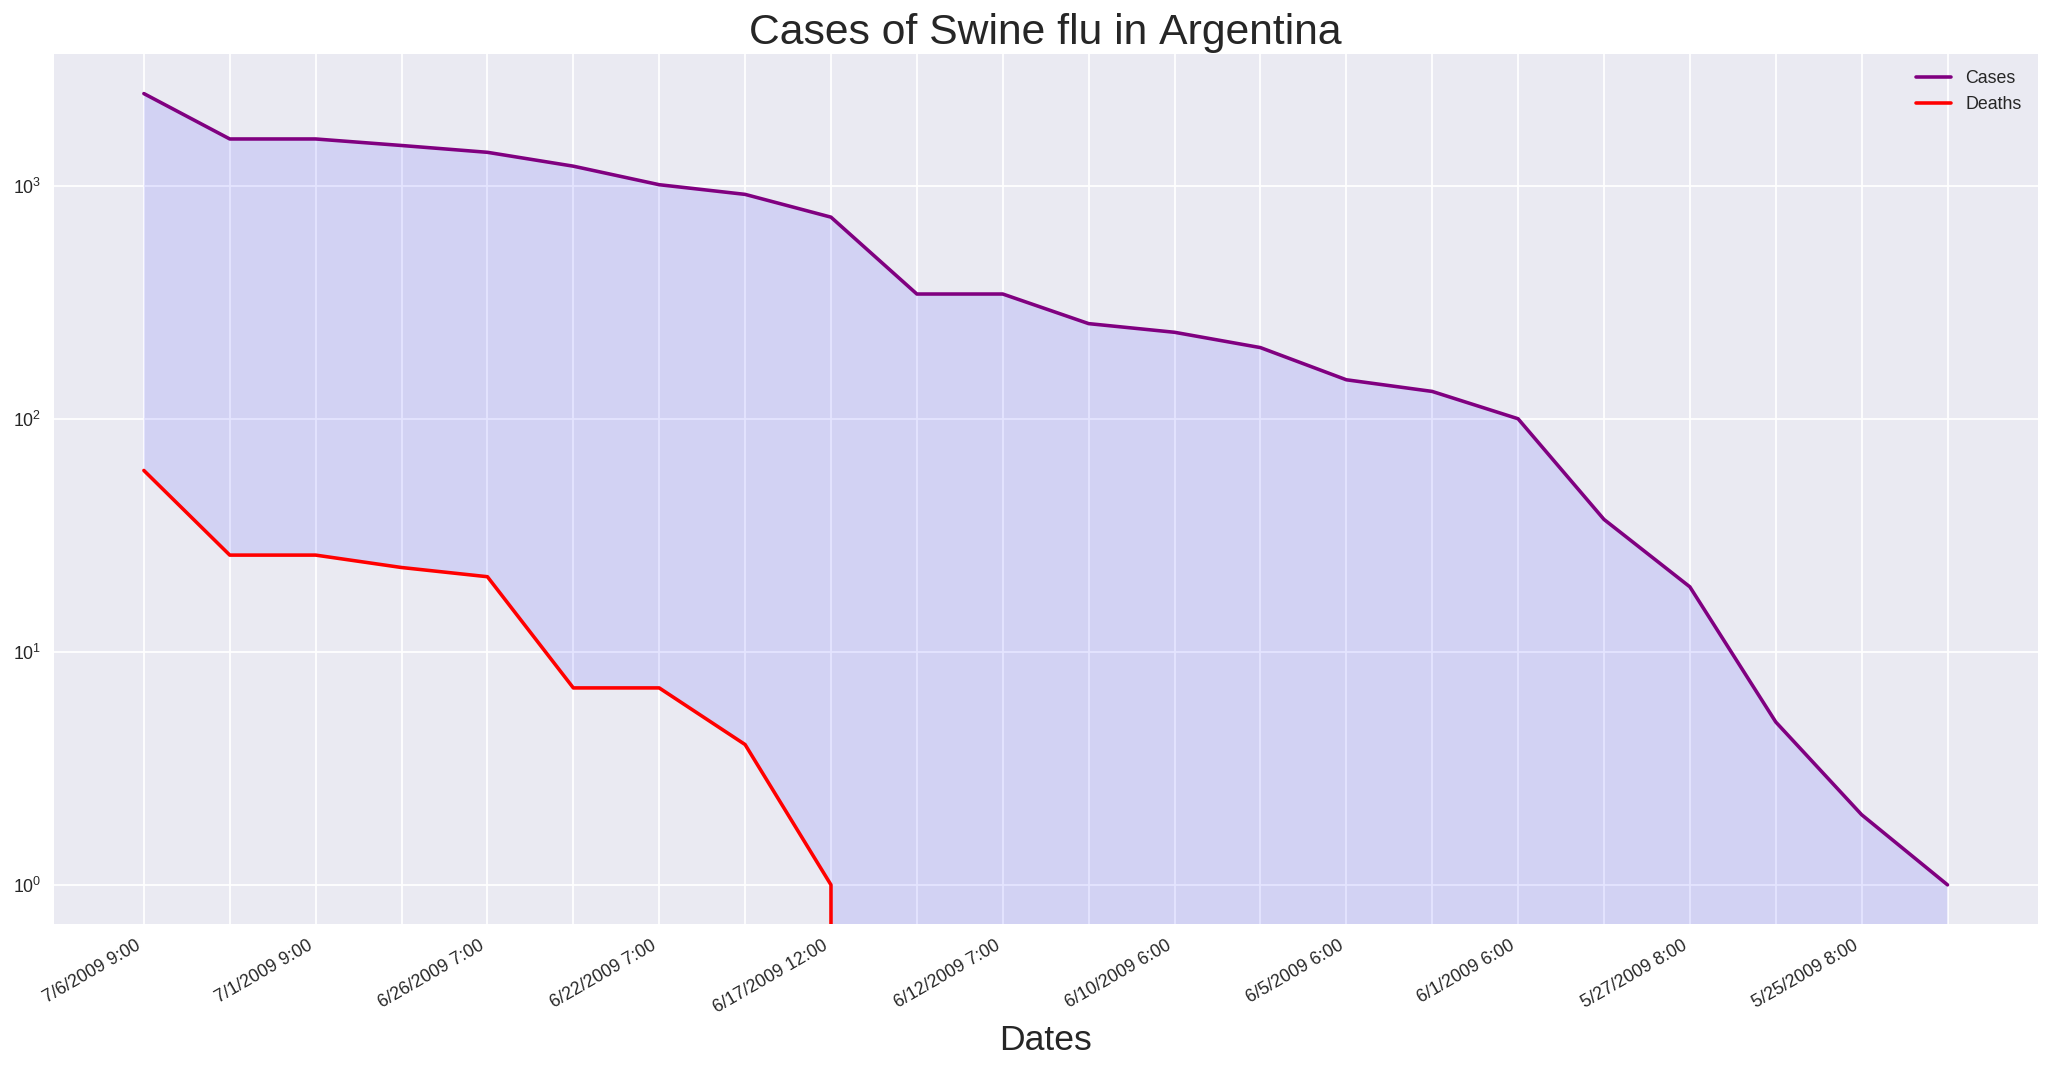
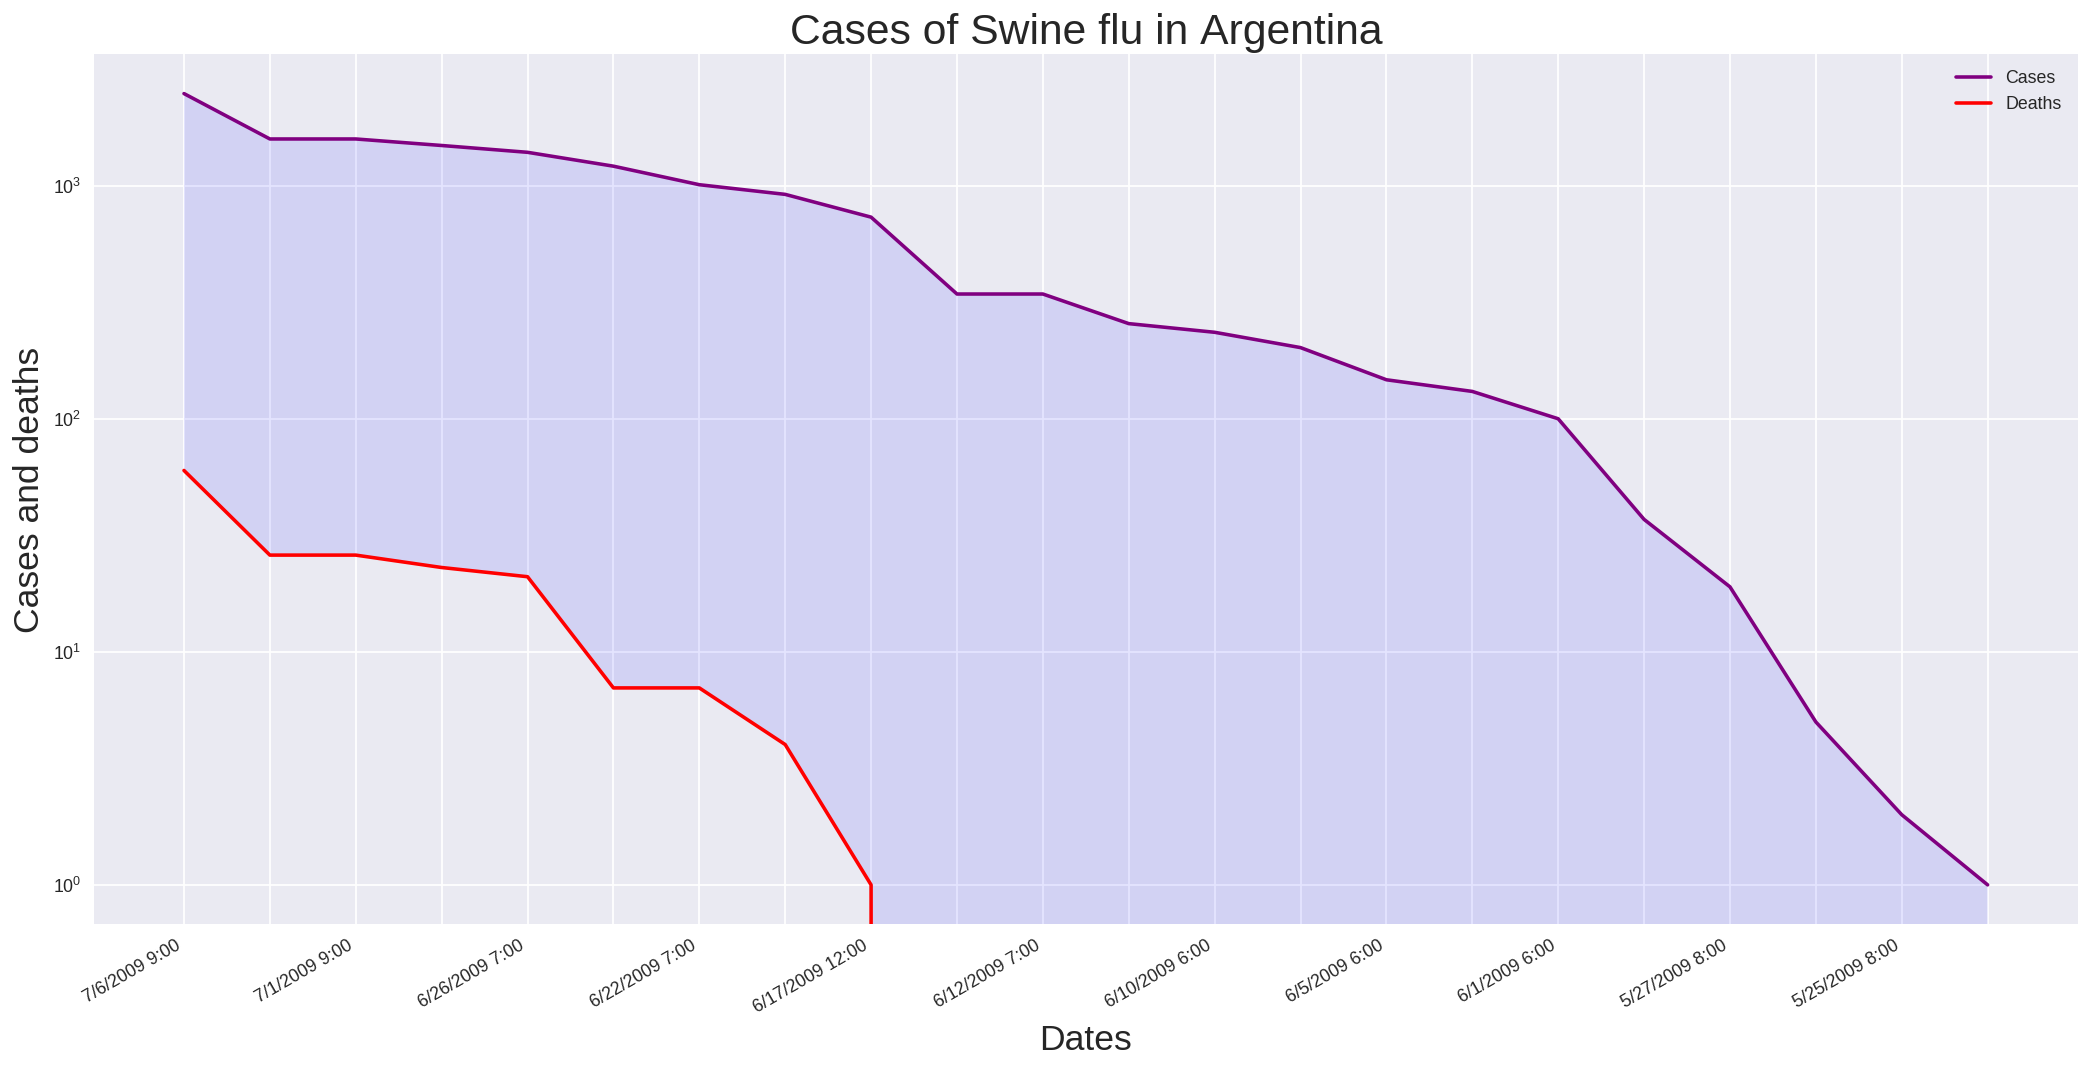
Added COVID-19 data, added urls.txt file with urls to my repo

diff --git a/scripts/formatting_data.py b/scripts/formatting_data.py
@@ -1,8 +1,22 @@
 import pandas as pd
 import numpy as np
 import matplotlib.pyplot as plt
+import re
 
+def get_rows(data_frame, top10):
+    
+    cases_list =[]
+    for region in top10:
+        new_data_frame = data_frame.loc[data_frame["Country/Region"]==region]
+        formatteddf = new_data_frame.groupby(by='Country/Region').sum()
+        cases_list.append(formatteddf.loc[region].tolist())
+    
+    return cases_list
 
+def get_dates(data_frame):
+    
+    return data_frame.columns.tolist()[1:]
+    
 def draw_graph(plots, title, disease, ticks):
     x_axis, x_axis_name, y1_axis, y2_axis, y_axis_name = plots
     plt.style.use('seaborn')
@@ -19,7 +33,7 @@ def draw_graph(plots, title, disease, ticks):
     plt.title(title, fontsize=24)
     plt.xlabel(x_axis_name, fontsize=20)
     fig.autofmt_xdate()
-    plt.ylabel("", fontsize=20)
+    plt.ylabel(y_axis_name, fontsize=20)
     plt.yscale(value="log")
     plt.tick_params(axis='both', which='major', labelsize=10)
     save_filename = title
@@ -54,3 +68,17 @@ def format_sars(data_frame):
         format_data(data_frame, region, "SARS", dates,
                     cases, "Number of deaths", 7)
 
+
+def format_corona(data_frames):
+    data_frame_c, data_frame_d = data_frames
+    data_frame_c = data_frame_c.drop(["Province/State", "Lat", "Long"], axis="columns")
+    data_frame_d = data_frame_d.drop(["Province/State", "Lat", "Long"], axis="columns")
+    dates = get_dates(data_frame_c)
+    last_date = dates[-1]
+    top10 = data_frame_c.sort_values(by = last_date, ascending = False)["Country/Region"].head(10).tolist()
+    deaths = get_rows(data_frame_d, top10)
+    cases = get_rows(data_frame_c, top10)
+    for country in range(len(top10)):
+        plots = ((dates, "Dates", cases[country],
+               deaths[country], "Cases and deaths"))
+        draw_graph(plots, f"Cases of COVID-19 in {top10[country]}","COVID-19",7)

diff --git a/driver.py b/driver.py
@@ -7,9 +7,14 @@ import formatting_data as fd
 
 def main():
     data_frames ={}
-    for arg in sys.argv[1:]:
-        data_frames[gd.get_name(arg)] = gd.retrieve(arg, gd.get_name(arg), "raw_data")
-        for df in data_frames:
-            print(data_frames[df])
+    #GETTING DATA FRAMES
+    for line in open("scripts/urls.txt"):
+        line = line[:-1]
+        data_frames[gd.get_name(line)] = gd.retrieve(line, gd.get_name(line), "raw_data")
+    #FORMATTING AND GRAPHING
+    keys_list = data_frames.keys()
+    fd.format_corona((data_frames[gd.get_key(keys_list, "coronacases")], data_frames[gd.get_key(keys_list, "coronadeaths")]))
+    fd.format_sars(data_frames[gd.get_key(keys_list, "sars")])
+    fd.format_swine_flu(data_frames[gd.get_key(keys_list, "swine")])
 
 main()

diff --git a/scripts/get_data.py b/scripts/get_data.py
@@ -17,3 +17,8 @@ def retrieve(sourceFile, name, destinationFolder):
 def get_name(url):
     result = re.search("data_[a-z]*\.csv", url)
     return url[result.start():]
+
+def get_key(keys_list, disease):
+    for key in keys_list:
+        if re.search(f"{disease}", key):
+            return key
